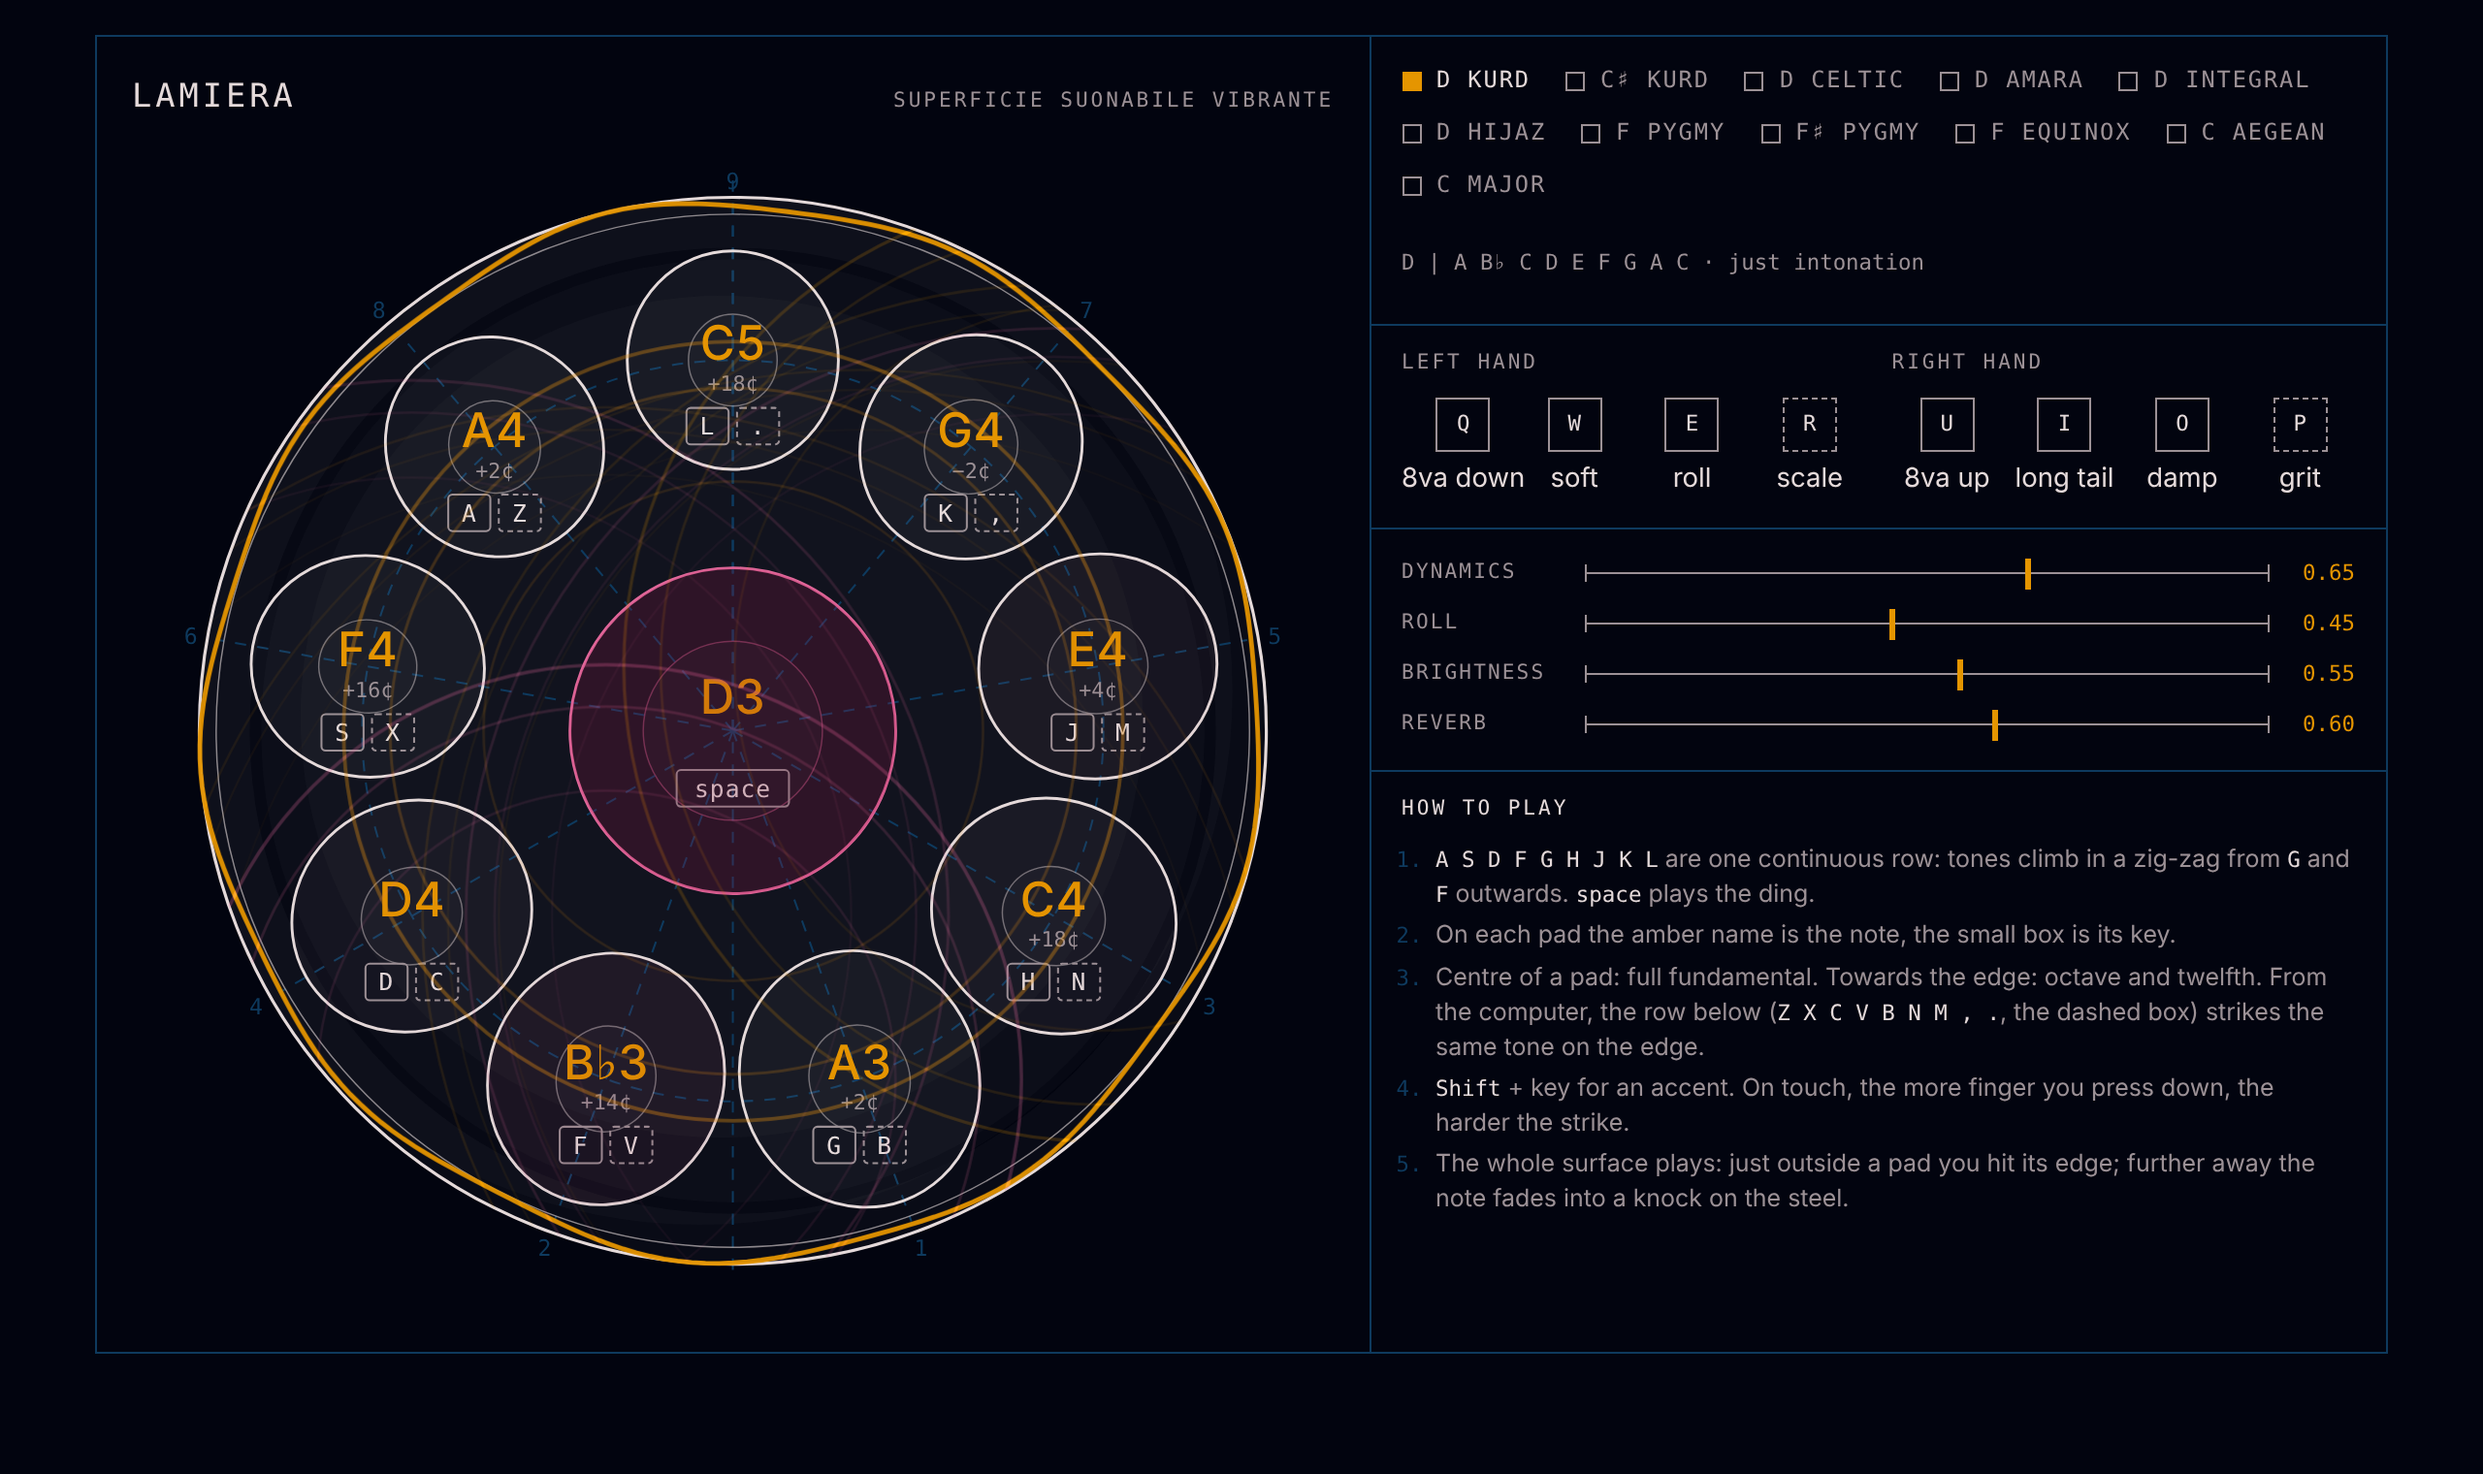
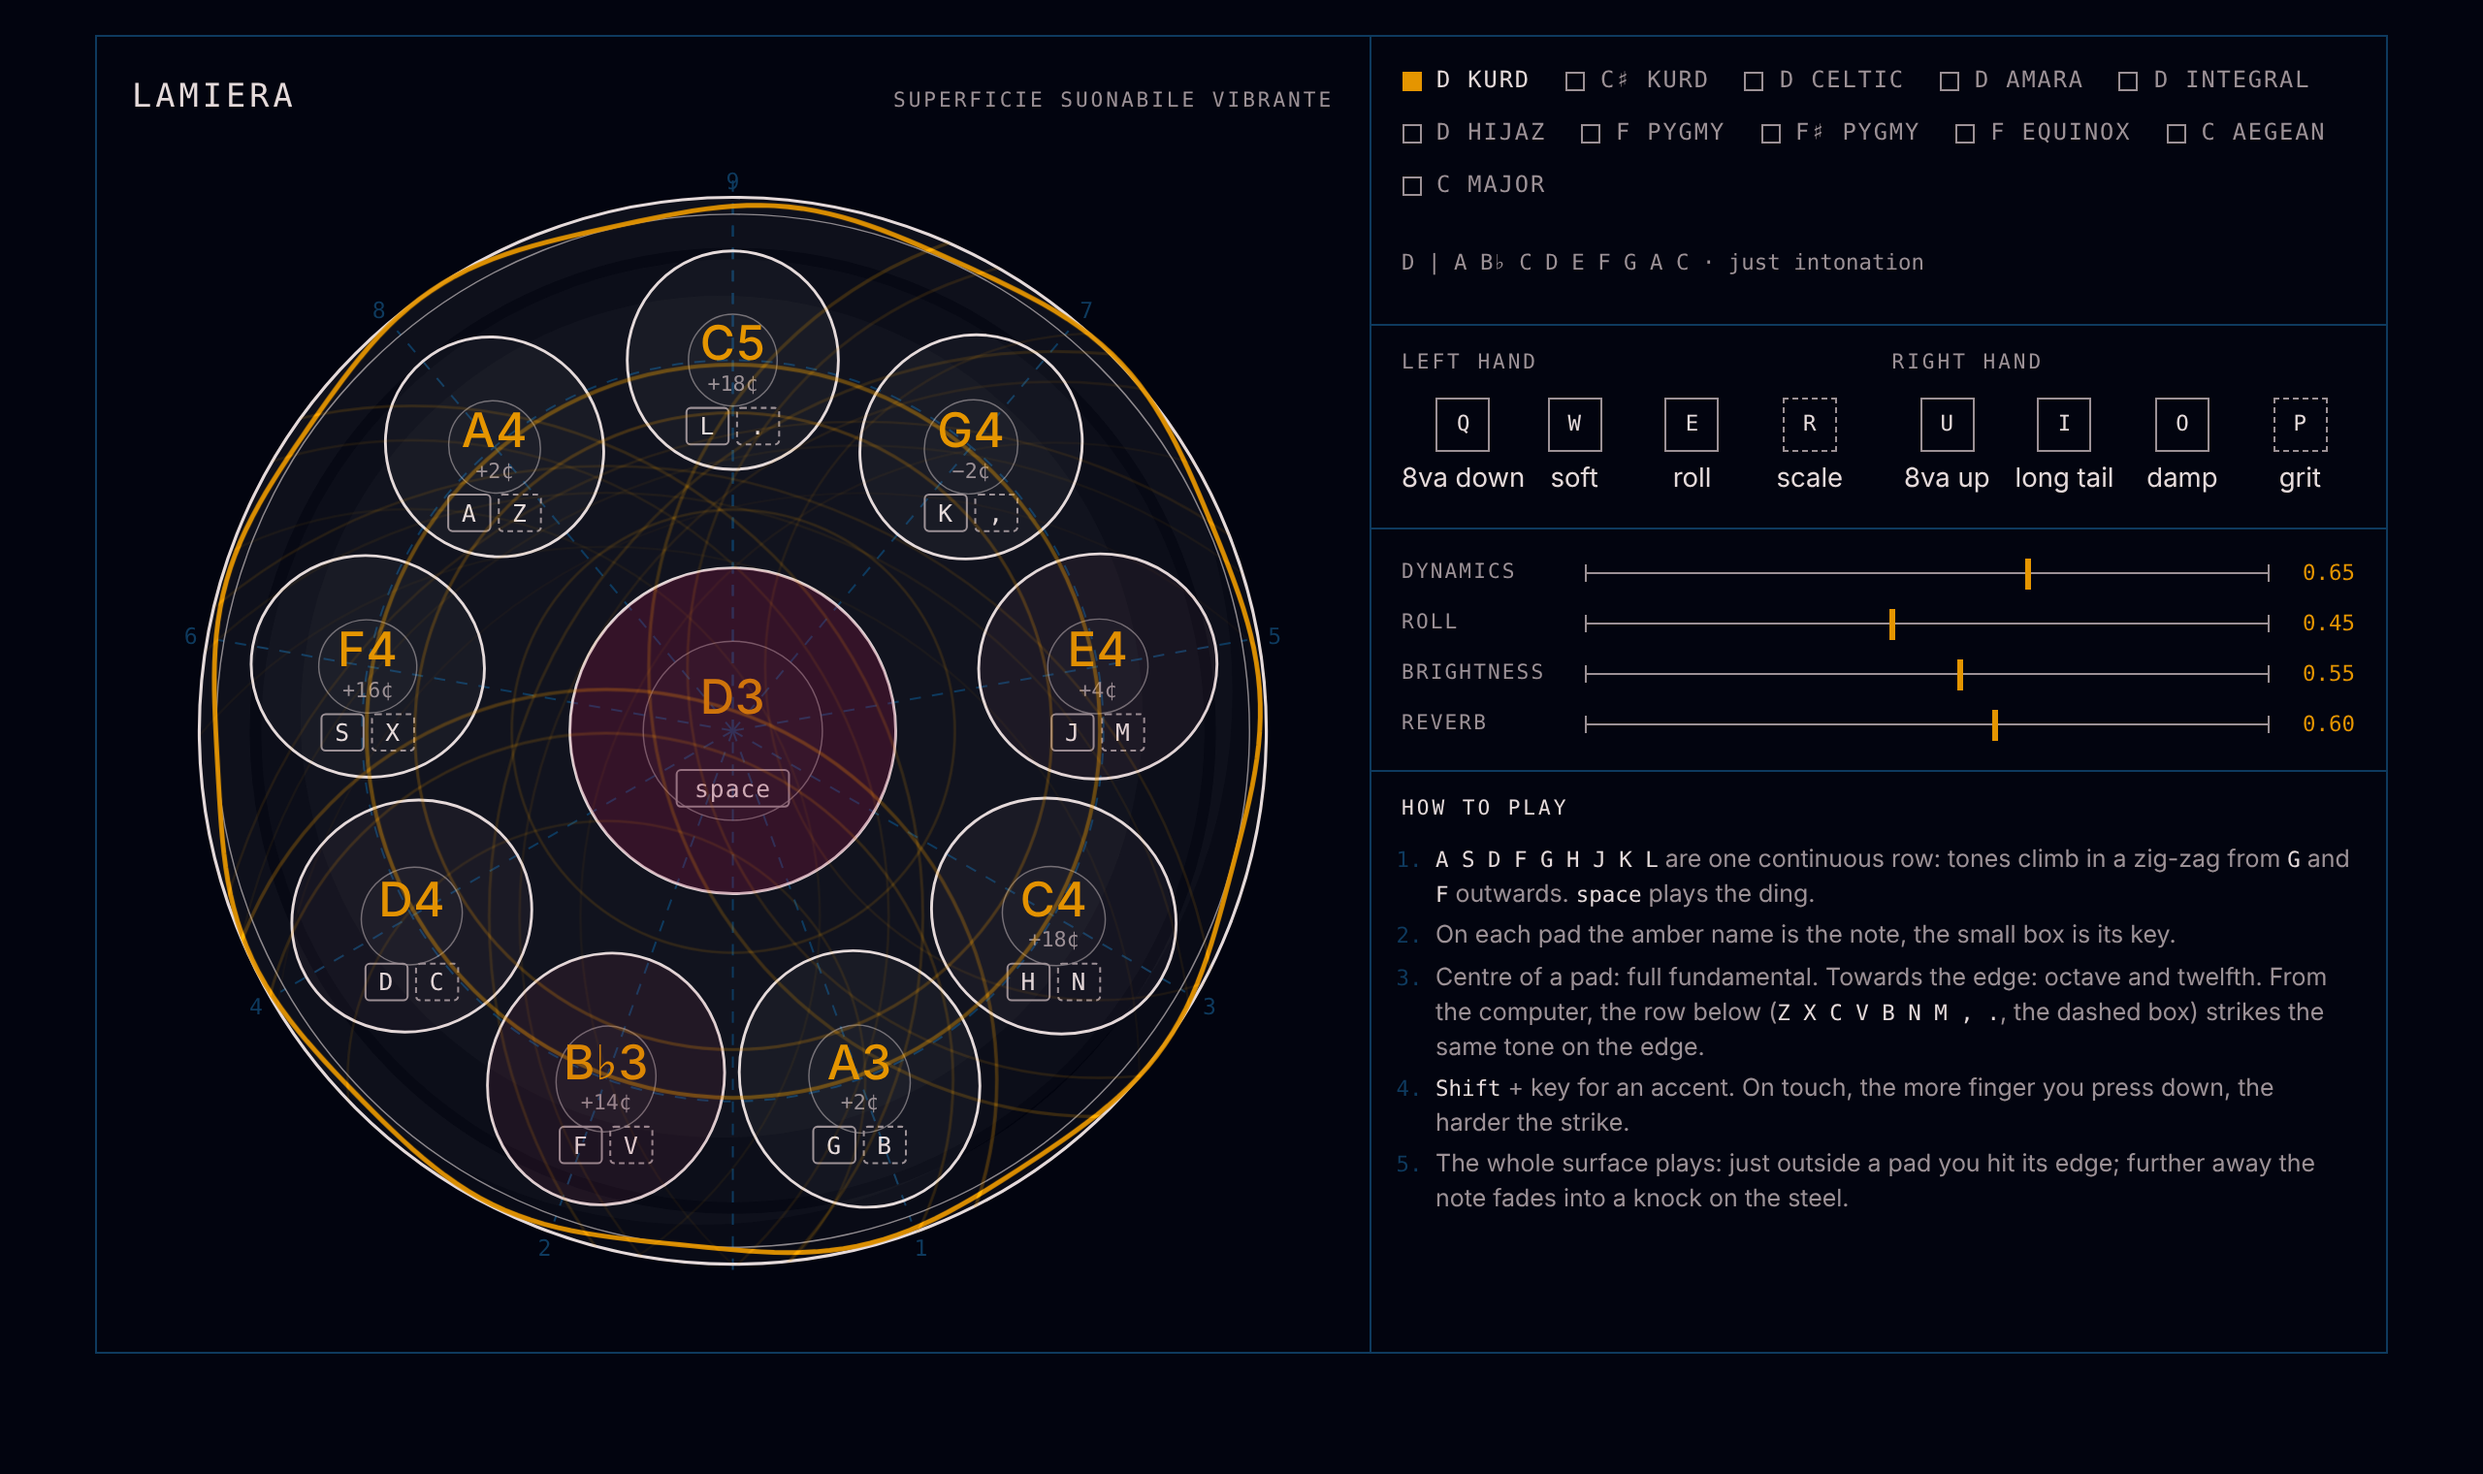
Back to the palette without the pink accents
Claude-Session: https://claude.ai/code/session_01PvgmHw9WPZuwuDRwTas5Yh

diff --git a/index.html b/index.html
@@ -20,7 +20,6 @@
   --amber:#E59500;         /* cio' che e' vivo */
   --claret:#840032;        /* cio' che e' pieno e forte */
   --claret-hi:#C23A6A;     /* bordeaux per i tratti sottili */
-  --pink:#E2689B;          /* rosa: il bordo, il ding, cio' che premi */
   --font-mono:"Martian Mono", ui-monospace, "SF Mono", Menlo, monospace;
   --font-body:"Familjen Grotesk", "Helvetica Neue", Arial, sans-serif;
   --mode:1;
@@ -52,9 +51,7 @@ button{font:inherit;color:inherit}
 .field{cursor:pointer}
 .field .shape{fill:rgba(229,218,218,.04);stroke:var(--ink);stroke-width:1;pointer-events:all;transition:fill .6s}
 .field .dimple{fill:rgba(229,218,218,.05);stroke:var(--ink);stroke-width:.5;opacity:.45;pointer-events:none}
-.field.hit .shape{fill:var(--claret);stroke:var(--pink);stroke-width:1.6;transition:none}
-.field[data-n="0"] .shape{stroke:var(--pink)}
-.field[data-n="0"] .dimple{stroke:var(--pink)}
+.field.hit .shape{fill:var(--claret);transition:none}
 .field text{pointer-events:none}
 .note{font-family:var(--font-body);font-weight:500;font-size:17px;fill:var(--amber);letter-spacing:.01em}
 .cents{font-family:var(--font-mono);font-weight:300;font-size:7.5px;fill:var(--ink-dim)}
@@ -90,7 +87,7 @@ h1{margin:0;font-family:var(--font-mono);font-weight:400;font-size:1.05rem;lette
 .mod b{display:grid;place-items:center;width:26px;height:26px;border:1px solid var(--ink-dim);font-family:var(--font-mono);font-weight:400;font-size:.7rem;transition:background .2s,border-color .2s}
 .mod span{font-size:.86rem;color:var(--ink);line-height:1.2;text-align:center;white-space:nowrap}
 .mod[data-kind="toggle"] b{border-style:dashed}
-.mod.on b{background:var(--pink);border-color:var(--pink);border-style:solid;color:var(--bg)}
+.mod.on b{background:var(--claret);border-color:var(--claret-hi);border-style:solid}
 .mod.on span{color:var(--amber)}
 .mod[data-kind="toggle"].on b{background:none;border-color:var(--amber);color:var(--amber)}
 .mod:focus-visible b{outline:1px solid var(--amber);outline-offset:2px}
@@ -328,13 +325,13 @@ kbd{font-family:var(--font-mono);font-size:.9em;color:var(--ink)}
 
   // colore dalla nota: i gravi verso il verde rame, gli acuti verso l'ottone
   function hueOf(f){ const t = Math.min(1, Math.max(0, Math.log2(f / (F0 * 2)) / 3.2)); return 185 - 150 * t; }
-  function flash(n, dur, amp, px, py, w){
+  function flash(n, dur, amp, px, py){
     const g = fieldsG.querySelector(`[data-n="${n}"]`);
     if (g){ g.classList.add("hit"); clearTimeout(g._t); g._t = setTimeout(() => g.classList.remove("hit"), 160); }
     const p = pos[n]; if (!p) return;
     const now = performance.now() / 1000, h = hueOf(freqOf(n));
     [[0, 1], [0.16, 0.55], [0.45, 0.3]].forEach(([dl, a]) =>
-      waves.push({ x: px ?? p.x, y: py ?? p.y, r0: px == null ? Math.max(p.rx, p.ry) : 4, born: now + dl, dur, amp: amp * a, h, w: Math.min(1, Math.max(0, ((w ?? 0.3) - 0.3) / 0.6)), kind: "note" }));
+      waves.push({ x: px ?? p.x, y: py ?? p.y, r0: px == null ? Math.max(p.rx, p.ry) : 4, born: now + dl, dur, amp: amp * a, h, kind: "note" }));
     glows.push({ p, born: now, dur: dur * 0.35, amp, h });
     if (waves.length > 160) waves.splice(0, waves.length - 160);
   }
@@ -369,15 +366,14 @@ kbd{font-family:var(--font-mono);font-size:.9em;color:var(--ink)}
         if (a < 0.008) return false;
         const r = reduce ? 186 : 188 * Math.exp(-age / 0.45);
         g2.beginPath(); g2.arc(200, 200, Math.max(1, r), 0, Math.PI * 2);
-        g2.strokeStyle = "#E2689B"; g2.globalAlpha = a; g2.lineWidth = 1.4; g2.stroke(); g2.globalAlpha = 1;
+        g2.strokeStyle = theme.muted; g2.globalAlpha = a; g2.lineWidth = 1.4; g2.stroke(); g2.globalAlpha = 1;
         return true;
       }
       const a = wv.amp * 0.75 * Math.exp(-age * 6.9 / wv.dur);
       if (a < 0.006) return false;
       const r = reduce ? wv.r0 + 6 : wv.r0 + 300 * (1 - Math.exp(-age / 2.2));
       g2.beginPath(); g2.arc(wv.x, wv.y, r, 0, Math.PI * 2);
-      // centro della piazzola = ambra, bordo = rosa
-      g2.strokeStyle = `rgba(${Math.round(229 - 3 * wv.w)},${Math.round(149 - 45 * wv.w)},${Math.round(155 * wv.w)},${a})`;
+      g2.strokeStyle = `rgba(229,149,0,${a})`;
       g2.lineWidth = 0.6 + 1.6 * wv.amp * Math.exp(-age / 1.5);
       g2.stroke();
       return true;
@@ -520,7 +516,7 @@ kbd{font-family:var(--font-mono);font-size:.9em;color:var(--ink)}
     const voice = { vg, nodes };
     voices.add(voice);
     setTimeout(() => { voices.delete(voice); try { vg.disconnect(); } catch(e){} }, (dec + 0.6) * 1000);
-    flash(n, dec, v, px, py, e);
+    flash(n, dec, v, px, py);
   }
   // slap: colpo secco sul bordo, mai uguale due volte
   let slapHand = 0, lastSlap = 0;
